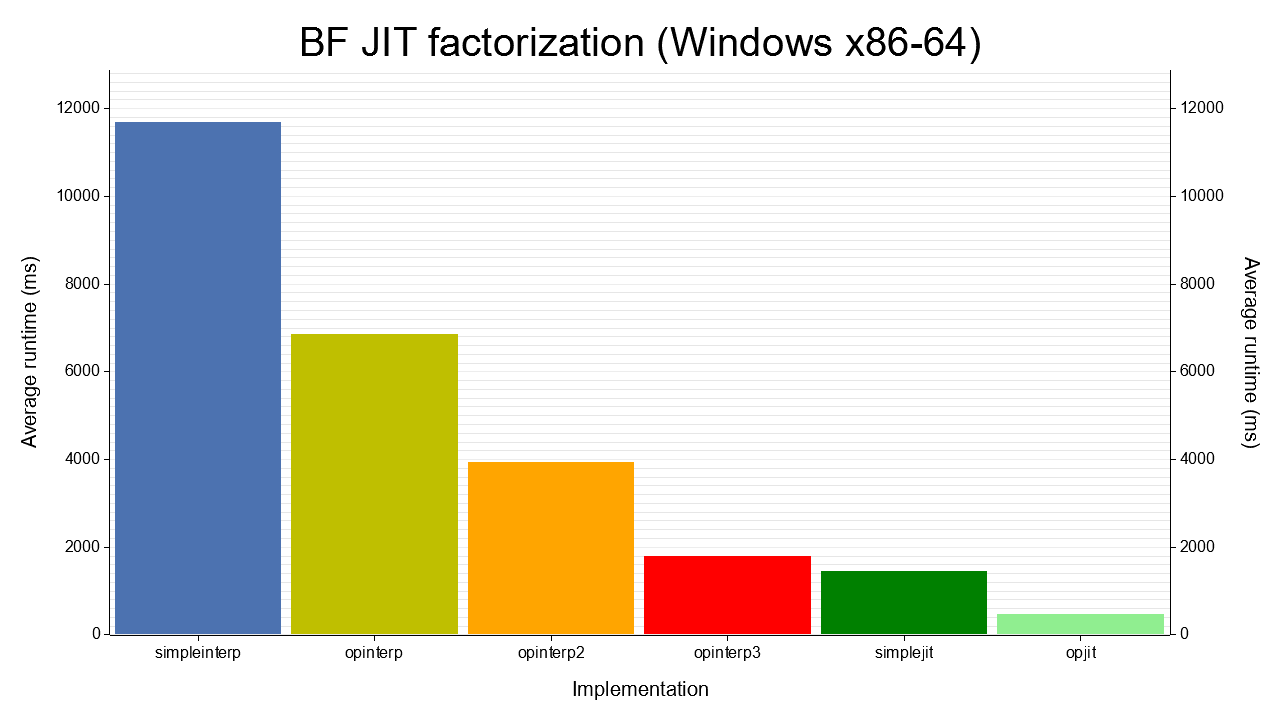
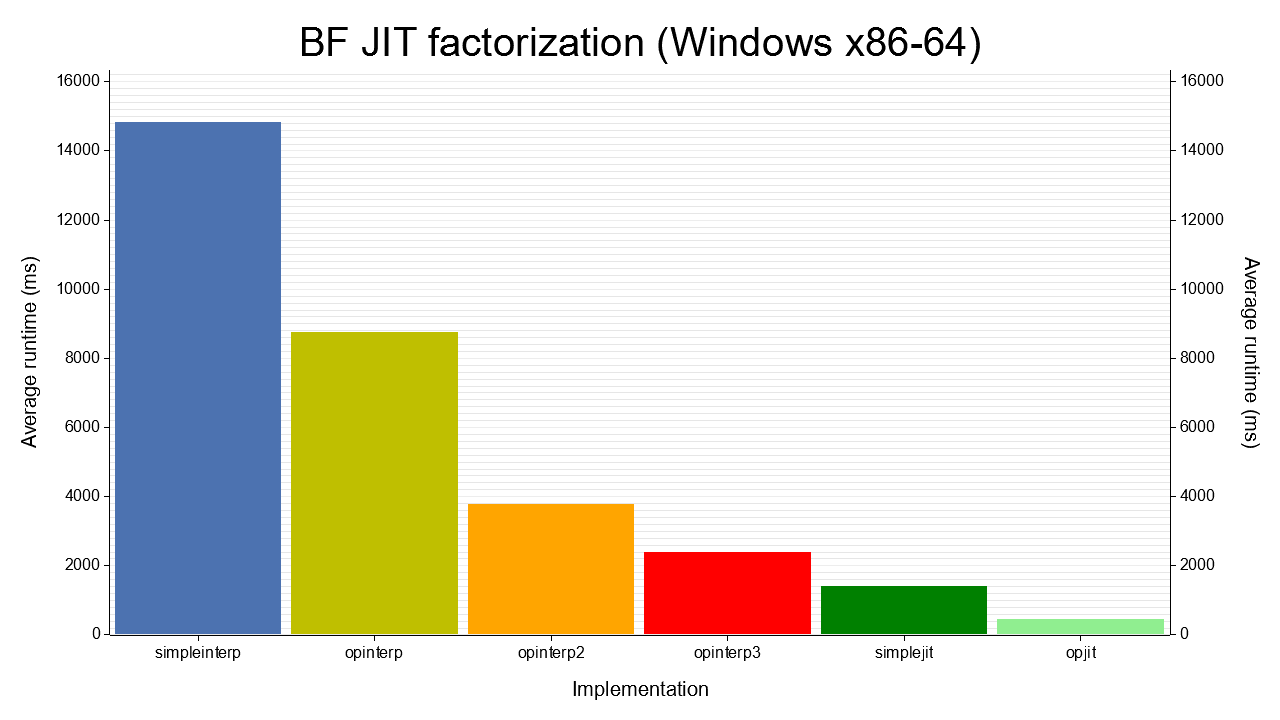
deploy: f9e03afe7b933c2dffe3f779a0a05a26d6fa9fee

diff --git a/settings.html b/settings.html
@@ -1,1 +1,1 @@
-<!DOCTYPE html><html lang="en"><head><meta charset="utf-8"><meta name="viewport" content="width=device-width, initial-scale=1.0"><meta name="generator" content="rustdoc"><meta name="description" content="Settings of Rustdoc"><meta name="keywords" content="rust, rustlang, rust-lang"><title>Rustdoc settings</title><link rel="preload" as="font" type="font/woff2" crossorigin href="./SourceSerif4-Regular.ttf.woff2"><link rel="preload" as="font" type="font/woff2" crossorigin href="./FiraSans-Regular.woff2"><link rel="preload" as="font" type="font/woff2" crossorigin href="./FiraSans-Medium.woff2"><link rel="preload" as="font" type="font/woff2" crossorigin href="./SourceCodePro-Regular.ttf.woff2"><link rel="preload" as="font" type="font/woff2" crossorigin href="./SourceSerif4-Bold.ttf.woff2"><link rel="preload" as="font" type="font/woff2" crossorigin href="./SourceCodePro-Semibold.ttf.woff2"><link rel="stylesheet" href="./normalize.css"><link rel="stylesheet" href="./rustdoc.css" id="mainThemeStyle"><link rel="stylesheet" href="./ayu.css" disabled><link rel="stylesheet" href="./dark.css" disabled><link rel="stylesheet" href="./light.css" id="themeStyle"><script id="default-settings" ></script><script src="./storage.js"></script><script defer src="./main.js"></script><noscript><link rel="stylesheet" href="./noscript.css"></noscript><link rel="alternate icon" type="image/png" href="./favicon-16x16.png"><link rel="alternate icon" type="image/png" href="./favicon-32x32.png"><link rel="icon" type="image/svg+xml" href="./favicon.svg"></head><body class="rustdoc mod"><!--[if lte IE 11]><div class="warning">This old browser is unsupported and will most likely display funky things.</div><![endif]--><nav class="mobile-topbar"><button class="sidebar-menu-toggle">&#9776;</button><a class="sidebar-logo" href="./opinterp3/index.html"><div class="logo-container"><img class="rust-logo" src="./rust-logo.svg" alt="logo"></div></a><h2 class="location"></h2></nav><nav class="sidebar"><a class="sidebar-logo" href="./opinterp3/index.html"><div class="logo-container"><img class="rust-logo" src="./rust-logo.svg" alt="logo"></div></a><h2 class="location">Settings</h2><div class="sidebar-elems"></div></nav><main><div class="width-limiter"><div class="sub-container"><a class="sub-logo-container" href="./opinterp3/index.html"><img class="rust-logo" src="./rust-logo.svg" alt="logo"></a><nav class="sub"><form class="search-form"><div class="search-container"><span></span><input class="search-input" name="search" autocomplete="off" spellcheck="false" placeholder="Click or press ‘S’ to search, ‘?’ for more options…" type="search"><div id="help-button" title="help" tabindex="-1"><button type="button">?</button></div><div id="settings-menu" tabindex="-1"><a href="./settings.html" title="settings"><img width="22" height="22" alt="Change settings" src="./wheel.svg"></a></div></div></form></nav></div><section id="main-content" class="content"><div class="main-heading"><h1 class="fqn"><span class="in-band">Rustdoc settings</span></h1><span class="out-of-band"><a id="back" href="javascript:void(0)" onclick="history.back();">Back</a></span></div><noscript><section>You need to enable Javascript be able to update your settings.</section></noscript><link rel="stylesheet" type="text/css" href="settings.css"><script defer src="settings.js"></script></section></div></main><div id="rustdoc-vars" data-root-path="./" data-current-crate="opinterp3" data-themes="ayu,dark,light" data-resource-suffix="" data-rustdoc-version="1.65.0 (897e37553 2022-11-02)" ></div></body></html>
+<!DOCTYPE html><html lang="en"><head><meta charset="utf-8"><meta name="viewport" content="width=device-width, initial-scale=1.0"><meta name="generator" content="rustdoc"><meta name="description" content="Settings of Rustdoc"><meta name="keywords" content="rust, rustlang, rust-lang"><title>Rustdoc settings</title><link rel="preload" as="font" type="font/woff2" crossorigin href="./SourceSerif4-Regular.ttf.woff2"><link rel="preload" as="font" type="font/woff2" crossorigin href="./FiraSans-Regular.woff2"><link rel="preload" as="font" type="font/woff2" crossorigin href="./FiraSans-Medium.woff2"><link rel="preload" as="font" type="font/woff2" crossorigin href="./SourceCodePro-Regular.ttf.woff2"><link rel="preload" as="font" type="font/woff2" crossorigin href="./SourceSerif4-Bold.ttf.woff2"><link rel="preload" as="font" type="font/woff2" crossorigin href="./SourceCodePro-Semibold.ttf.woff2"><link rel="stylesheet" href="./normalize.css"><link rel="stylesheet" href="./rustdoc.css" id="mainThemeStyle"><link rel="stylesheet" href="./ayu.css" disabled><link rel="stylesheet" href="./dark.css" disabled><link rel="stylesheet" href="./light.css" id="themeStyle"><script id="default-settings" ></script><script src="./storage.js"></script><script defer src="./main.js"></script><noscript><link rel="stylesheet" href="./noscript.css"></noscript><link rel="alternate icon" type="image/png" href="./favicon-16x16.png"><link rel="alternate icon" type="image/png" href="./favicon-32x32.png"><link rel="icon" type="image/svg+xml" href="./favicon.svg"></head><body class="rustdoc mod"><!--[if lte IE 11]><div class="warning">This old browser is unsupported and will most likely display funky things.</div><![endif]--><nav class="mobile-topbar"><button class="sidebar-menu-toggle">&#9776;</button><a class="sidebar-logo" href="./simpleinterp/index.html"><div class="logo-container"><img class="rust-logo" src="./rust-logo.svg" alt="logo"></div></a><h2 class="location"></h2></nav><nav class="sidebar"><a class="sidebar-logo" href="./simpleinterp/index.html"><div class="logo-container"><img class="rust-logo" src="./rust-logo.svg" alt="logo"></div></a><h2 class="location">Settings</h2><div class="sidebar-elems"></div></nav><main><div class="width-limiter"><div class="sub-container"><a class="sub-logo-container" href="./simpleinterp/index.html"><img class="rust-logo" src="./rust-logo.svg" alt="logo"></a><nav class="sub"><form class="search-form"><div class="search-container"><span></span><input class="search-input" name="search" autocomplete="off" spellcheck="false" placeholder="Click or press ‘S’ to search, ‘?’ for more options…" type="search"><div id="help-button" title="help" tabindex="-1"><button type="button">?</button></div><div id="settings-menu" tabindex="-1"><a href="./settings.html" title="settings"><img width="22" height="22" alt="Change settings" src="./wheel.svg"></a></div></div></form></nav></div><section id="main-content" class="content"><div class="main-heading"><h1 class="fqn"><span class="in-band">Rustdoc settings</span></h1><span class="out-of-band"><a id="back" href="javascript:void(0)" onclick="history.back();">Back</a></span></div><noscript><section>You need to enable Javascript be able to update your settings.</section></noscript><link rel="stylesheet" type="text/css" href="settings.css"><script defer src="settings.js"></script></section></div></main><div id="rustdoc-vars" data-root-path="./" data-current-crate="simpleinterp" data-themes="ayu,dark,light" data-resource-suffix="" data-rustdoc-version="1.65.0 (897e37553 2022-11-02)" ></div></body></html>

diff --git a/src/opjit/compiler.rs.html b/src/opjit/compiler.rs.html
@@ -334,23 +334,23 @@
         <span class="kw">match </span>instruction {
             Instruction::IncPtr { count } =&gt; {
                 <span class="macro">dasm!</span>(ops
-                    ; add reg_data_ptr, DWORD count.try_into().unwrap()
-                );
+                    ; add reg_data_ptr, DWORD count.try_into()<span class="question-mark">?
+                </span>);
             }
             Instruction::DecPtr { count } =&gt; {
                 <span class="macro">dasm!</span>(ops
-                    ; sub reg_data_ptr, DWORD count.try_into().unwrap()
-                );
+                    ; sub reg_data_ptr, DWORD count.try_into()<span class="question-mark">?
+                </span>);
             }
             Instruction::IncData { count } =&gt; {
                 <span class="macro">dasm!</span>(ops
-                    ; add BYTE [reg_data_ptr], BYTE count.try_into().unwrap()
-                );
+                    ; add BYTE [reg_data_ptr], BYTE count.try_into()<span class="question-mark">?
+                </span>);
             }
             Instruction::DecData { count } =&gt; {
                 <span class="macro">dasm!</span>(ops
-                    ; sub BYTE [reg_data_ptr], BYTE count.try_into().unwrap()
-                );
+                    ; sub BYTE [reg_data_ptr], BYTE count.try_into()<span class="question-mark">?
+                </span>);
             }
             Instruction::Read { count } =&gt; {
                 <span class="kw">for _ in </span><span class="number">0</span>..count {
@@ -421,12 +421,12 @@
 
                     <span class="kw">if </span>forward {
                         <span class="macro">dasm!</span>(ops
-                            ; add reg_data_ptr, DWORD amount.try_into().unwrap()
-                        );
+                            ; add reg_data_ptr, DWORD amount.try_into()<span class="question-mark">?
+                        </span>);
                     } <span class="kw">else </span>{
                         <span class="macro">dasm!</span>(ops
-                            ; sub reg_data_ptr, DWORD amount.try_into().unwrap()
-                        );
+                            ; sub reg_data_ptr, DWORD amount.try_into()<span class="question-mark">?
+                        </span>);
                     }
 
                     <span class="macro">dasm!</span>(ops
@@ -448,7 +448,7 @@
                         ; mov reg_temp1_low, BYTE [reg_data_ptr]
                     );
 
-                    <span class="kw">let </span>amount_i32: i32 = amount.try_into().unwrap();
+                    <span class="kw">let </span>amount_i32: i32 = amount.try_into()<span class="question-mark">?</span>;
                     <span class="kw">if </span>forward {
                         <span class="macro">dasm!</span>(ops
                             ; add BYTE [reg_data_ptr + amount_i32], reg_temp1_low

diff --git a/src/opinterp3/vm.rs.html b/src/opinterp3/vm.rs.html
@@ -148,12 +148,12 @@
             Instruction::DecPtr { count } =&gt; data_pointer -= count,
             Instruction::IncData { count } =&gt; {
                 <span class="kw">let </span><span class="kw-2">mut </span>val = memory[data_pointer];
-                val = val.wrapping_add(count.try_into().unwrap());
+                val = val.wrapping_add(count.try_into()<span class="question-mark">?</span>);
                 memory[data_pointer] = val;
             }
             Instruction::DecData { count } =&gt; {
                 <span class="kw">let </span><span class="kw-2">mut </span>val = memory[data_pointer];
-                val = val.wrapping_sub(count.try_into().unwrap());
+                val = val.wrapping_sub(count.try_into()<span class="question-mark">?</span>);
                 memory[data_pointer] = val;
             }
             Instruction::Read { count } =&gt; {

diff --git a/src/bench/lib.rs.html b/src/bench/lib.rs.html
@@ -352,7 +352,7 @@
 ) -&gt; <span class="prelude-ty">Result</span>&lt;u128, BfError&gt; {
     <span class="macro">println!</span>(<span class="string">&quot;Benchmarking {name}...&quot;</span>);
 
-    <span class="kw">const </span>NUM_RUNS: usize = <span class="number">2</span>;
+    <span class="kw">const </span>NUM_RUNS: usize = <span class="number">10</span>;
     <span class="kw">let </span><span class="kw-2">mut </span>times = [<span class="number">0</span>; NUM_RUNS];
 
     <span class="kw">for </span>item <span class="kw">in </span>times.iter_mut() {
